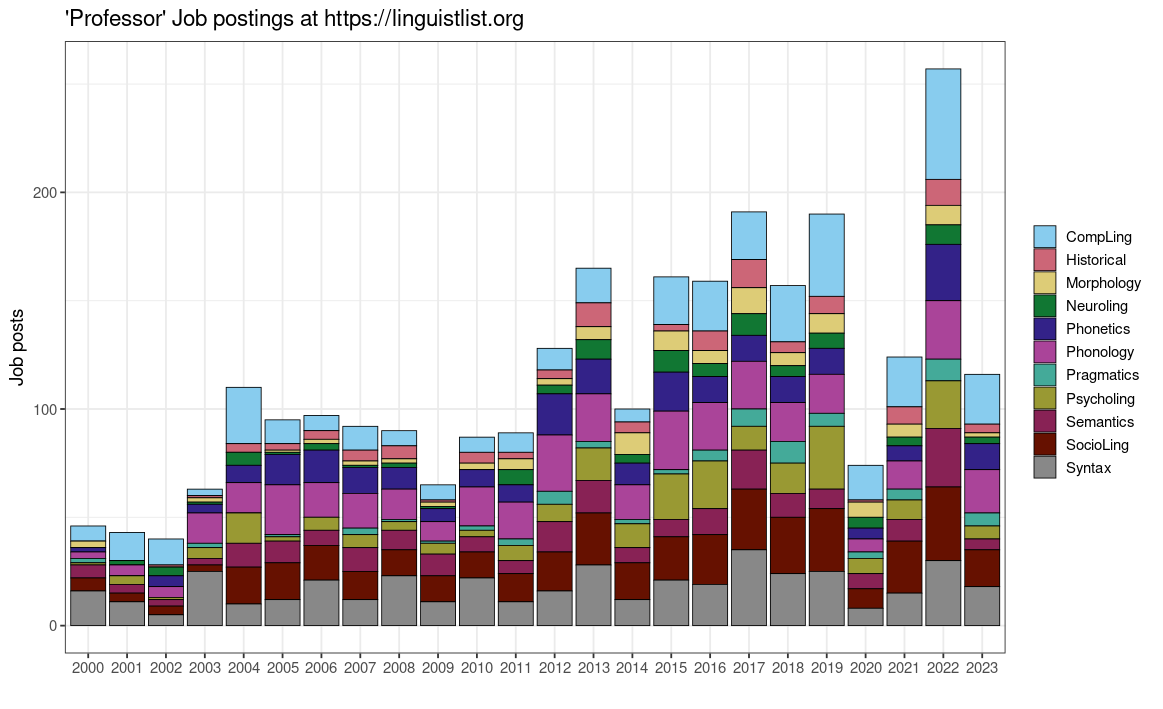
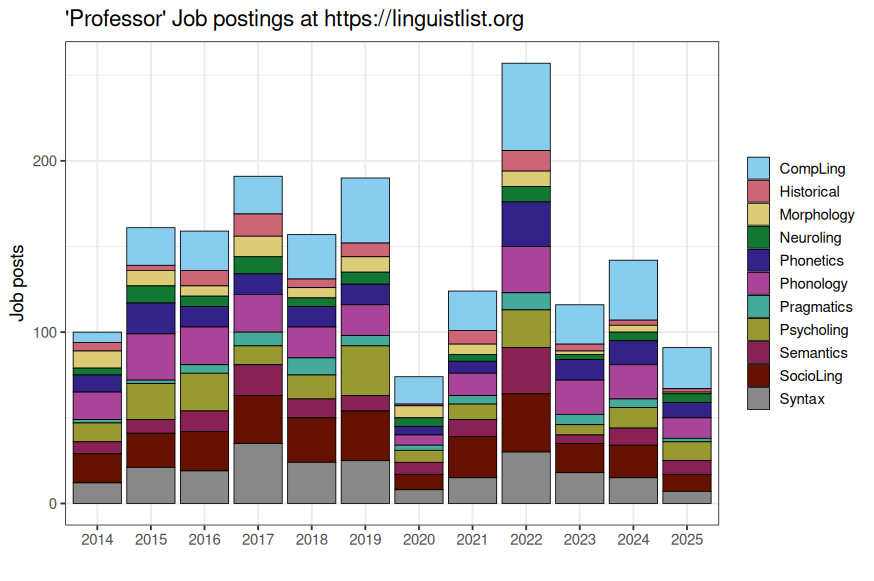
Add files via upload

diff --git a/script.py b/script.py
@@ -20,7 +20,7 @@ except:
 # while others use "Faculty" instead), and tiny minority in the single digits uses "Professeure"
 if (case == 0):
     print('Professor tally')
-    pattern2 = re.compile(r'prof(ess(or|eure))?|open-?rank|faculty (at|position)|faculty[:punct:]',re.I)
+    pattern2 = re.compile(r'\bprof(ess(or(ship)?|eure))?|open-?rank|faculty (at|position)|faculty[:punct:]',re.I)
 
 # Search for 'Postoc' jobs 
 elif (case == 1):
@@ -35,7 +35,7 @@ elif (case == 2):
 
 
 month_list = ["January", "February", "March", "April", "May", "June", "July", "August", "September", "October", "November", "December"]   
-year_list = [str(m) for m in range(1997,2023)]
+year_list = [str(m) for m in range(1997,2026)]
 areas = ["Syntax","Semantics","Morphology","Phonetics","Phonology","Socio","Pragmatics","Comp Ling","Computational","Natural Language Processing","Psycholing","Typology","Documentation", "Neuroling","Historical","Forensic","quisition"]
 # Both "Acquisition" and "Aquisition" appear in posts
 
@@ -56,7 +56,8 @@ for area in areas:
                 if (email_month == month) and (email_year == year):
                     input_file = open(path + filename,"r",encoding = "ISO-8859-1")
                     for line in input_file:
-                        if "Jobs: " in line:                                    
+                        # 2 job posts in Sep23 aren't categorized as such, and had to be hand-corrected in the dataset 
+                        if "Jobs: " in line:                                                       
                             if ((area.lower() in line.lower()) and re.search(pattern2,line)):
                                 counter += 1
                     input_file.close()
